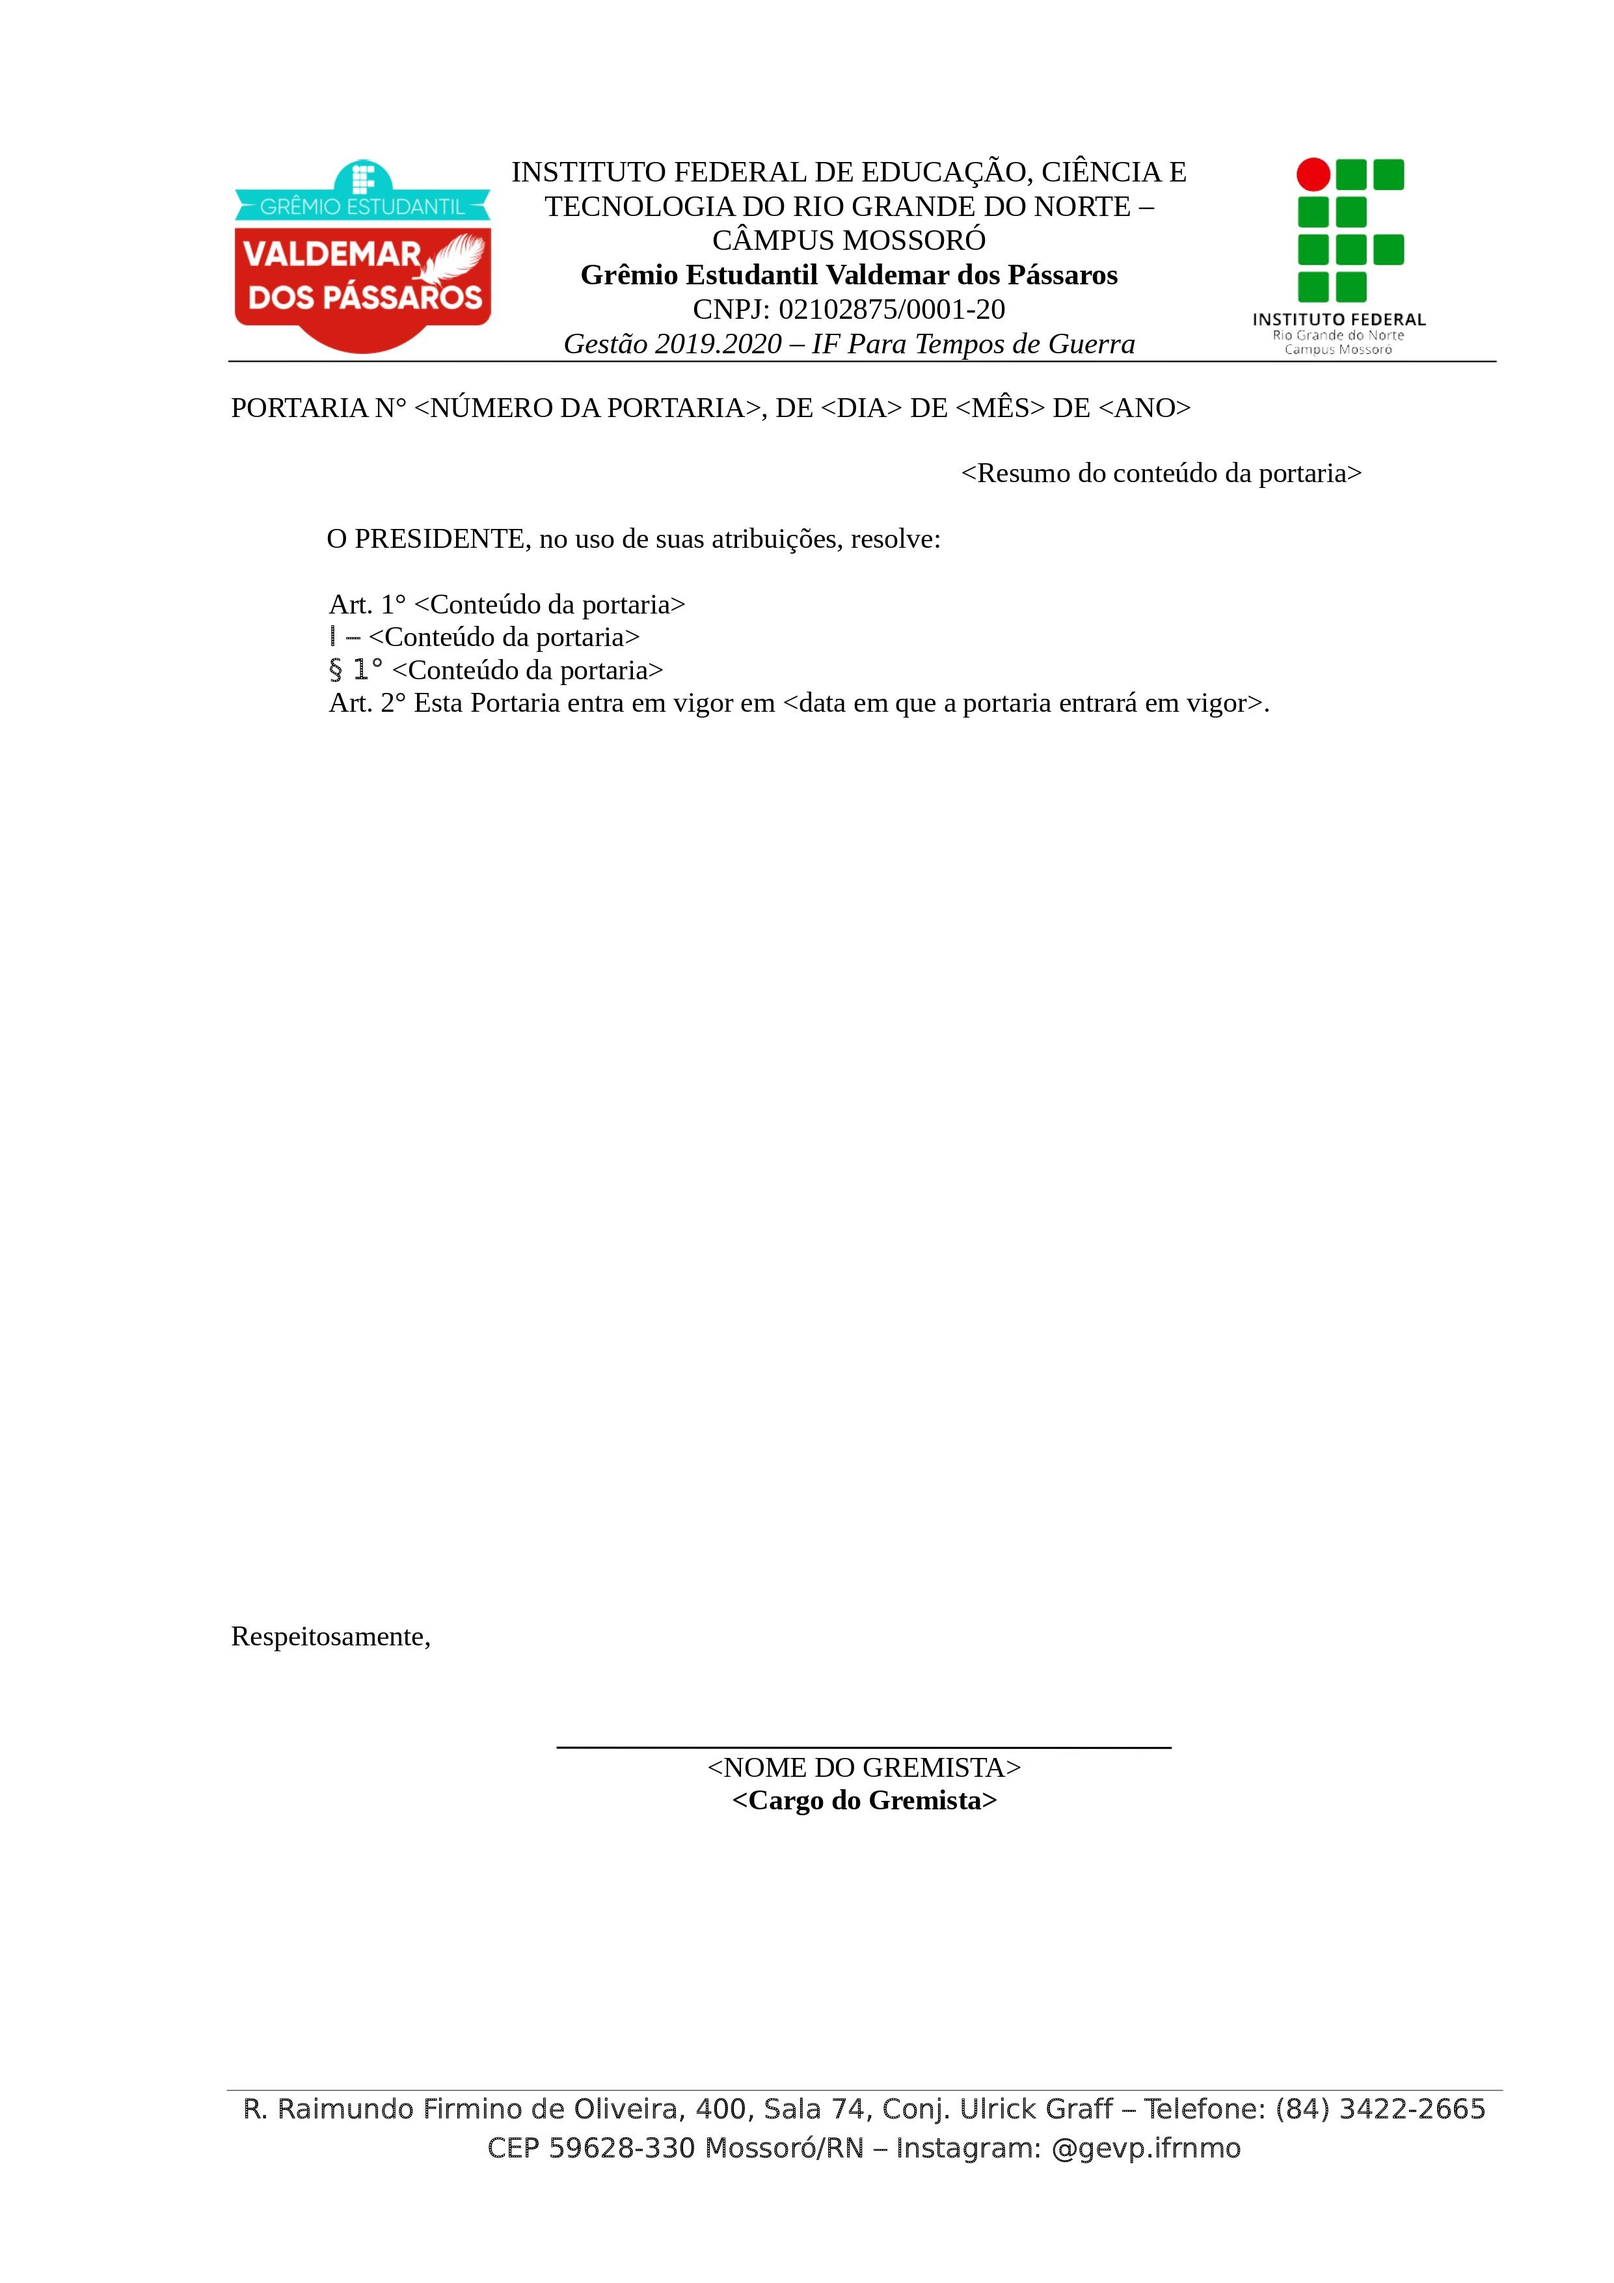
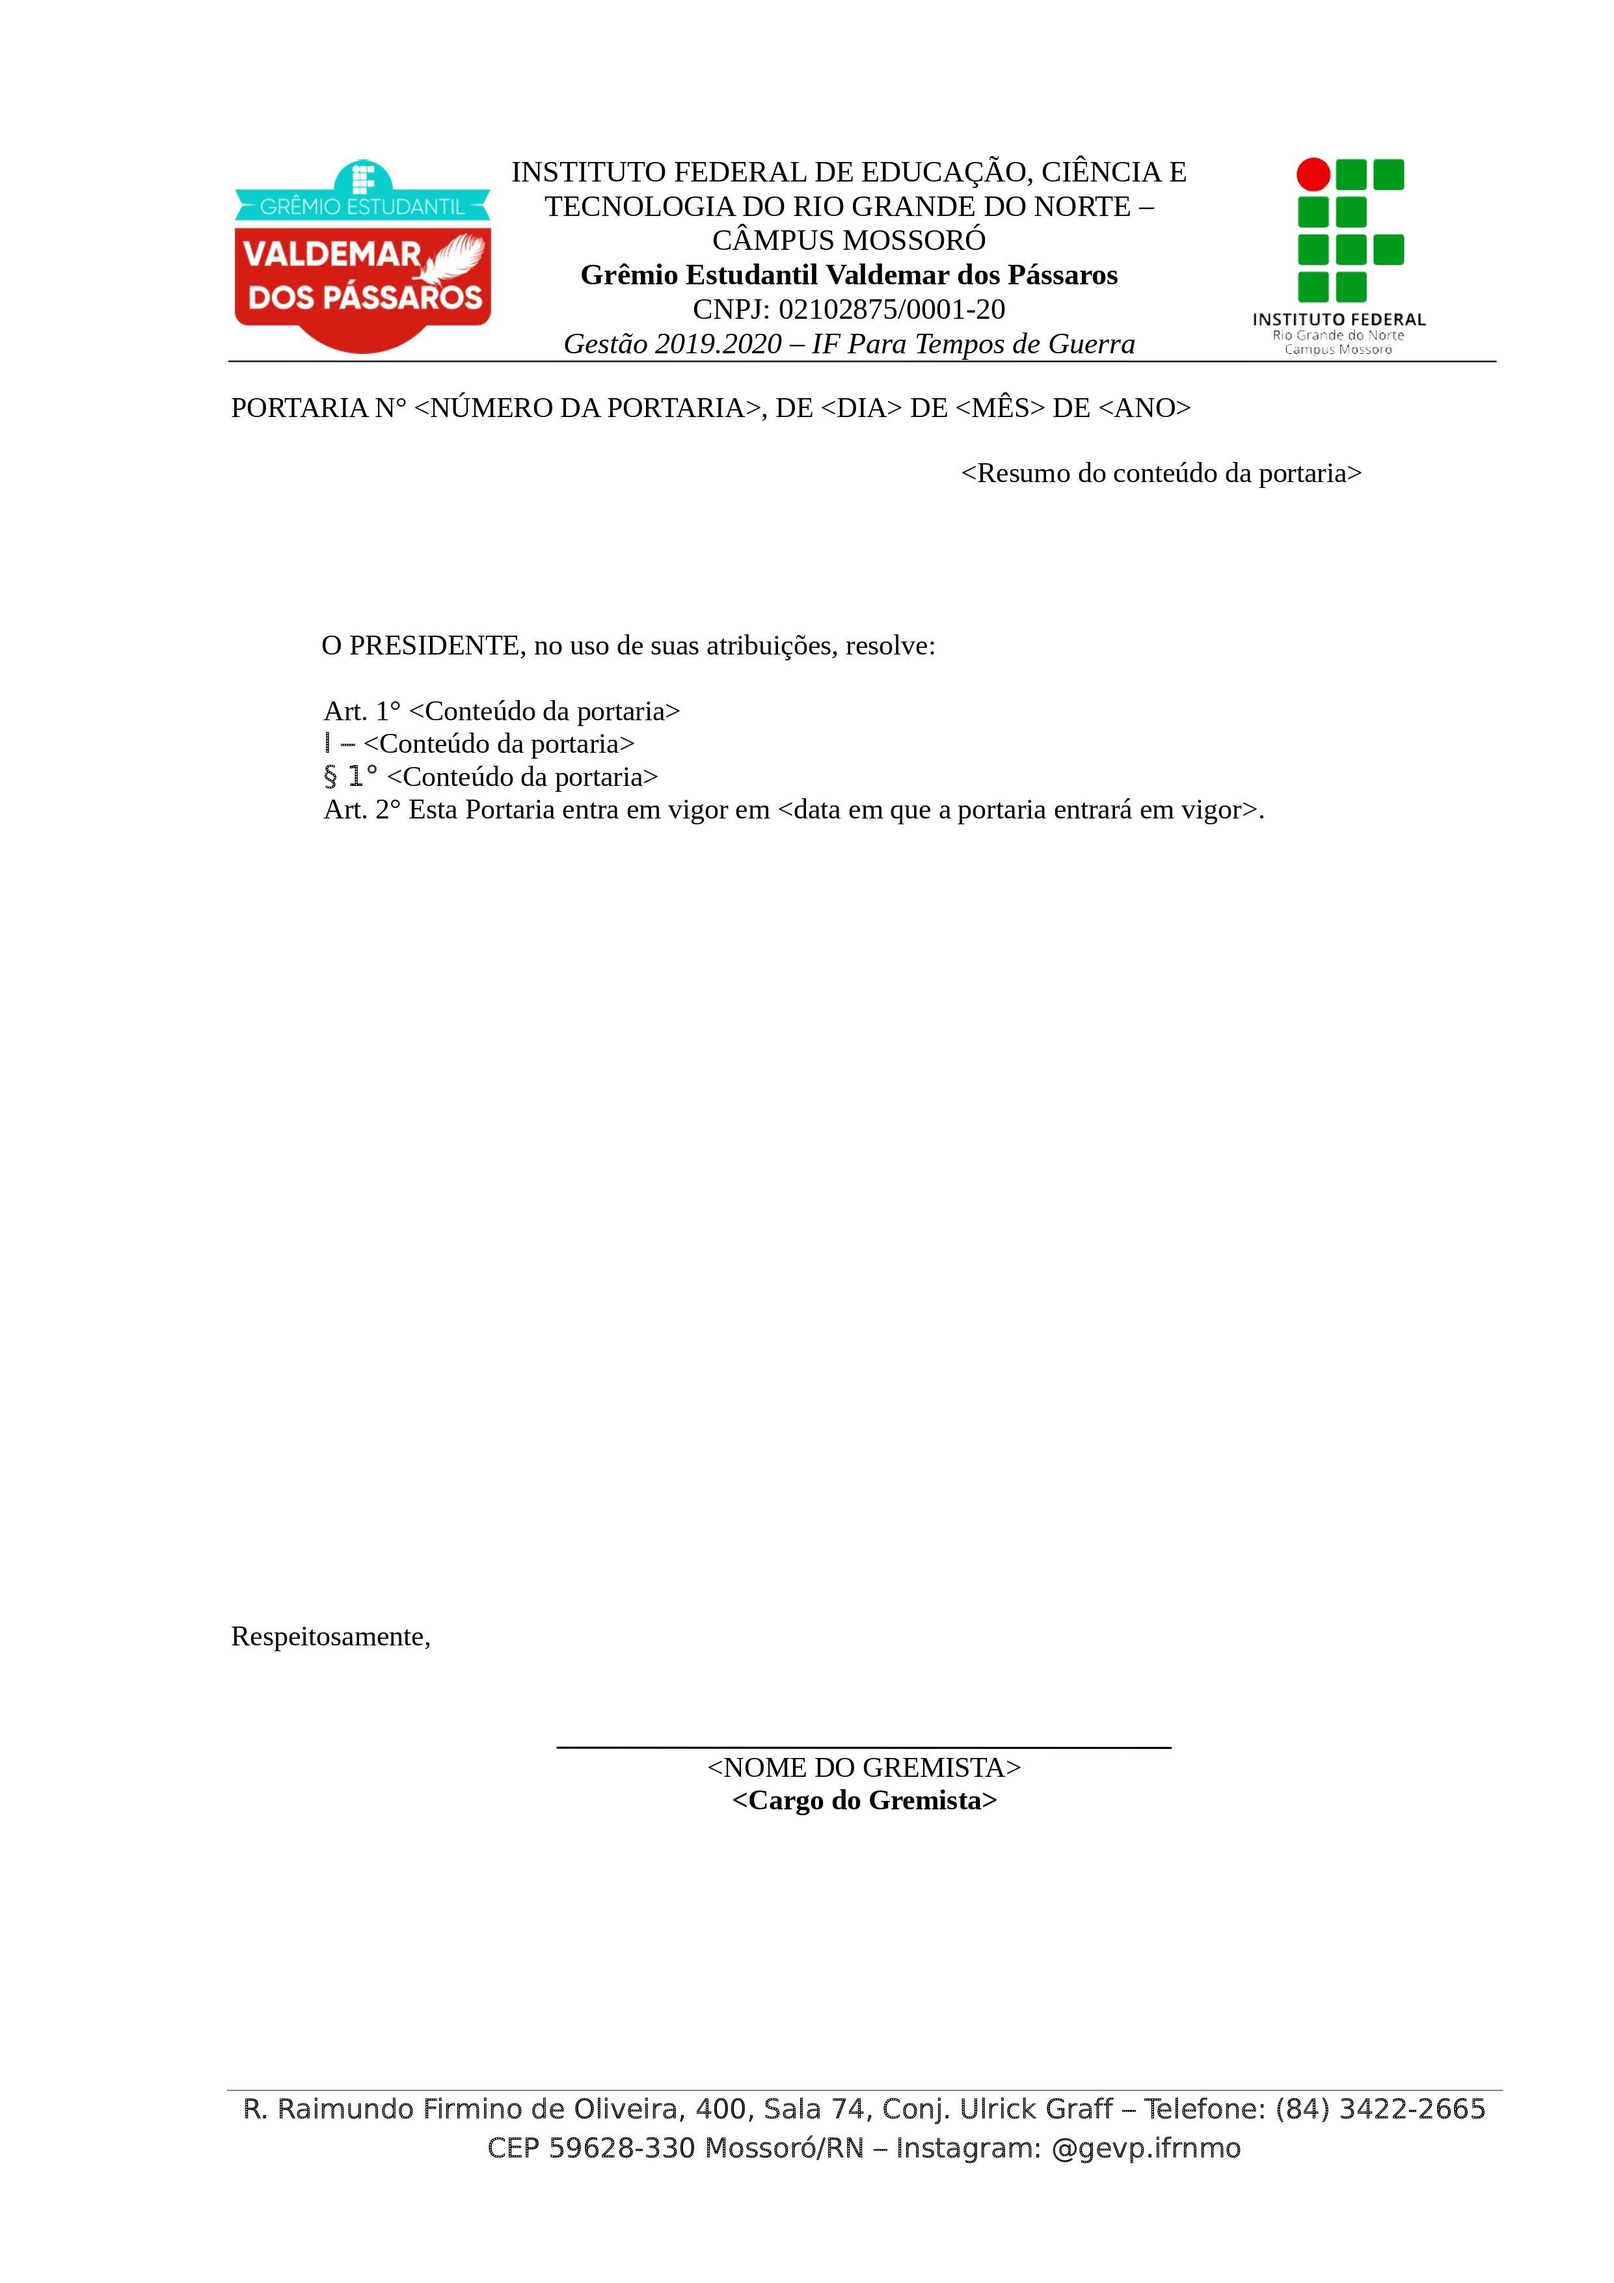
Adição da Função de Portaria

Changed region(s): [[0.1862, 0.2174, 0.5586, 0.3728]]

diff --git a/_css/documentos.css b/_css/documentos.css
@@ -153,3 +153,106 @@
     height: 297mm;
     display: block;
 }
+
+
+/* Gerar Portaria Ofício */
+
+#fundo-port {
+    background-image: url("/TCC/documentos/interno/elementos/img/foto_portaria.jpg") !important;
+    background-repeat: no-repeat;
+    background-size: 100%;
+    float: left;
+    width: 210mm;
+}
+
+#numeracao-port {
+    margin-top: 50mm;
+    margin-left: 29mm;
+    margin-right: 15mm;
+    width: 106mm;
+    height: 5mm;
+    background-color: red;
+}
+
+#input-numeracao-port {
+    width: 130mm;
+    height: 5mm;
+}
+
+#resumo-port {
+    margin-top: 1mm;
+    margin-left: 100mm;
+    margin-right: 15mm;
+    width: 88mm;
+    height: 21mm;
+    background-color: green;
+}
+
+#input-resumo_doc_port {
+    width: 88mm;
+    height: 21mm
+}
+
+#texto-port {
+    margin-top: 1mm;
+    margin-left: 30mm;
+    margin-right: 16mm;
+    width: 158mm;
+    height: 115mm;
+    background-color: navy;
+}
+
+#input-texto-port {
+    width: 158mm;
+    height: 115mm;
+}
+
+#fecho-port {
+    margin-top: 18mm;
+    margin-left: 30mm;
+    margin-right: 15mm;
+    width: 40mm;
+    height: 5mm;
+    background-color: grey;
+}
+
+#input-fecho-port {
+    width: 42mm;
+    height: 5mm;
+}
+
+#assinatura-port {
+    margin-top: 12mm;
+    margin-left: 91mm;
+    margin-right: 15mm;
+    width: 43mm;
+    height: 5mm;
+    background-color: gold;
+}
+
+#input-assinatura-port {
+    width: 45mm;
+    height: 5mm;
+}
+
+#cargo-port {
+    margin-top: 0mm;
+    margin-left: 91mm;
+    margin-right: 15mm;
+    width: 43mm;
+    height: 5mm;
+    background-color: coral;
+}
+
+#input-cargo-port {
+    width: 45mm;
+    height: 5mm;
+}
+
+#input-card-port {
+    margin-top: -130px;
+    margin-left: 720px;
+    position: absolute;
+    padding-left: 20px;
+    padding-right: 20px;
+}

diff --git a/ckeditor/js/javascript.js b/ckeditor/js/javascript.js
@@ -1,3 +1,3 @@
-
 CKFinder.setupCKEditor();
 CKEDITOR.replace('input-corpoOficio');
+CKEDITOR.replace('input-inicio-port');

diff --git a/documentos/interno/portaria/gerar_portaria.php b/documentos/interno/portaria/gerar_portaria.php
@@ -1,152 +1,129 @@
 <html lang="pt-br">
+
 <head>
 
-		<meta charset="utf-8">
-    <meta name="viewport" content="width=device-width, initial-scale=1, shrink-to-fit=no">
-		<title>Gerar Nova Portaria</title>
-		
-			<link rel="stylesheet" href="https://stackpath.bootstrapcdn.com/bootstrap/4.1.3/css/bootstrap.min.css" integrity="sha384-MCw98/SFnGE8fJT3GXwEOngsV7Zt27NXFoaoApmYm81iuXoPkFOJwJ8ERdknLPMO" crossorigin="anonymous">
-	
-			<script src="https://code.jquery.com/jquery-3.3.1.slim.min.js" integrity="sha384-q8i/X+965DzO0rT7abK41JStQIAqVgRVzpbzo5smXKp4YfRvH+8abtTE1Pi6jizo" crossorigin="anonymous"></script>
-			<script src="https://cdnjs.cloudflare.com/ajax/libs/popper.js/1.14.3/umd/popper.min.js" integrity="sha384-ZMP7rVo3mIykV+2+9J3UJ46jBk0WLaUAdn689aCwoqbBJiSnjAK/l8WvCWPIPm49" crossorigin="anonymous"></script>
-			<script src="https://stackpath.bootstrapcdn.com/bootstrap/4.1.3/js/bootstrap.min.js" integrity="sha384-ChfqqxuZUCnJSK3+MXmPNIyE6ZbWh2IMqE241rYiqJxyMiZ6OW/JmZQ5stwEULTy" crossorigin="anonymous"></script>
-			<link rel="stylesheet" type="text/css" href="/TCC/_css/documentos.css">
-			<link rel="stylesheet" type="text/css" href="/TCC/_css/listar.css"> 
-			<link rel="stylesheet" type="text/css" href="/TCC/_css/estilo.css">
-			
-			
-			<script type="text/javascript">
-				setTimeout(function(){ 
-                var msg = document.getElementsByClassName("alertaDeErro");
-                while(msg.length > 0){
-                    msg[0].parentNode.removeChild(msg[0]);
-                }
-            }, 5000);
-        </script>
+	<meta charset="utf-8">
+	<meta name="viewport" content="width=device-width, initial-scale=1, shrink-to-fit=no">
+	<title>Gerar Nova Portaria</title>
 
-		<!-- Teste de Tab-->
-		
-			
+	<link rel="stylesheet" href="https://stackpath.bootstrapcdn.com/bootstrap/4.1.3/css/bootstrap.min.css" integrity="sha384-MCw98/SFnGE8fJT3GXwEOngsV7Zt27NXFoaoApmYm81iuXoPkFOJwJ8ERdknLPMO" crossorigin="anonymous">
+
+	<script src="https://code.jquery.com/jquery-3.3.1.slim.min.js" integrity="sha384-q8i/X+965DzO0rT7abK41JStQIAqVgRVzpbzo5smXKp4YfRvH+8abtTE1Pi6jizo" crossorigin="anonymous"></script>
+	<script src="https://cdnjs.cloudflare.com/ajax/libs/popper.js/1.14.3/umd/popper.min.js" integrity="sha384-ZMP7rVo3mIykV+2+9J3UJ46jBk0WLaUAdn689aCwoqbBJiSnjAK/l8WvCWPIPm49" crossorigin="anonymous"></script>
+	<script src="https://stackpath.bootstrapcdn.com/bootstrap/4.1.3/js/bootstrap.min.js" integrity="sha384-ChfqqxuZUCnJSK3+MXmPNIyE6ZbWh2IMqE241rYiqJxyMiZ6OW/JmZQ5stwEULTy" crossorigin="anonymous"></script>
+	<link rel="stylesheet" type="text/css" href="/TCC/_css/documentos.css">
+	<link rel="stylesheet" type="text/css" href="/TCC/_css/listar.css">
+	<link rel="stylesheet" type="text/css" href="/TCC/_css/estilo.css">
+
+
+	<script type="text/javascript">
+		setTimeout(function() {
+			var msg = document.getElementsByClassName("alertaDeErro");
+			while (msg.length > 0) {
+				msg[0].parentNode.removeChild(msg[0]);
+			}
+		}, 5000);
+	</script>
+
+	<!-- Teste de Tab-->
+
+
 
 </head>
 
-	<body class="temaescuro">
-		<?php
-		include_once("../../../menu.php");
-		include_once("../../../conexao.php");
-if($_SESSION['login'] != null) {
-			$login = $_SESSION['login']; 
-		?> 
+<body class="temaescuro">
+	<?php
+	include_once("../../../menu.php");
+	include_once("../../../conexao.php");
+	if ($_SESSION['login'] != null) {
+		$login = $_SESSION['login'];
+	?>
 		<script>
-function Onlynumbers(e)
-{
-	var tecla=new Number();
-	if(window.event) {
-		tecla = e.keyCode;
-	}
-	else if(e.which) {
-		tecla = e.which;
-	}
-	else {
-		return true;
-	}
-	if((tecla >= "97") && (tecla <= "122")){
-		return false;
-	}
-}</script>
+			function Onlynumbers(e) {
+				var tecla = new Number();
+				if (window.event) {
+					tecla = e.keyCode;
+				} else if (e.which) {
+					tecla = e.which;
+				} else {
+					return true;
+				}
+				if ((tecla >= "97") && (tecla <= "122")) {
+					return false;
+				}
+			}
+		</script>
 		<div id="interface">
-				<div class= "divoficio" id="fundooficio" > <!-- div de exibição do bimestre--> 
-					<form action="inserir_doc_port.php" method="POST">
+			<div class="divoficio" id="fundo-port">
+				<!-- div de exibição do bimestre-->
+				<form action="inserir_doc_port.php" method="POST">
 					<!--<div id="gestao_doc_ofc">
 						<input id ="input-gestao" type="text" placeholder="Gestão 2019.2021 - IF Para Tempos de Guerra" name="gestao_doc_ofc" required>
 					</div>
 -->
 
-					<div id="numeracaoOficio">
-						
-						<input id ="input-numeracao-port" type="text" placeholder="OFÍCIO <ANO>.<NÚMERO>/<SIGLA DA DIRETORIA>/GEVP" name="num_doc_ofc" required>
+					<div id="titulo_doc_port">
+						<input name="titulo_doc_port" id="titulo_doc_port" type="text" placeholder="PORTARIA Nº <NÚMERO>/<ANO>, DE <DIA> DE <MÊS> DE <ANO>" value = "PORTARIA Nº <NÚMERO>/<ANO>, DE <DIA> DE <MÊS> DE <ANO>" required>
 					</div>
 
-						<div id="resumo-port">
-
-					<textarea wrap="hard" required name="resumo_doc_port" id ="input-resumo_doc_port" spellcheck="true"></textarea>
+					<div id="resumo-port">
+						<textarea wrap="hard" required name="resumo_doc_port" id="input-resumo_doc_port" spellcheck="true"></textarea>
 					</div>
 
-					
-					<div id="inicio-port">
-					<select name = "inicio-port">
-						<option value = "O Presidente"> O Presidente </option>
-						<option value = "A Presidente"> A Presidente </option>
-						<option value = "O Vice-presidente"> O Vice-presidente </option>
-						<option value = "A Vice-presidente"> A Vice-presidente </option>
-					</select>
-					<select name = "preambulo-port">
-						<option value = "O Presidente">, no uso de suas atribuções, resolve: </option>
-						<option value = "A Presidente">, no uso de suas atribuições e considerando:</option> <!-- parei aqui -->
-						<option value = "O Vice-presidente"> O Vice-presidente </option>
-						<option value = "A Vice-presidente"> A Vice-presidente </option>
-					</select>
-					</div>
-			
 
-					<div id="corpoOficio">
-					<textarea required id ="input-corpoOficio" type="text" placeholder="Texto do ofício" name="corpo_doc_ofc" spellcheck="true"></textarea>
-
-					</div>
-					
-					<div id="fechoOficio">
-					<input required id ="input-fechoOficio" type="text" placeholder="<Atenciosamente>," name="fecho_doc_ofc" spellcheck="true">
-
-					
+					<div id="texto-port">
+						<textarea name="texto_doc_port" required id="input-texto-port" type="text" placeholder="O Presidente, no uso de suas atribuições, resolve" spellcheck="true">O Presidente, no uso de suas atribuições, resolve</textarea>
 					</div>
 
-					<div id="assinaturaOficio">
-					<input required id ="input-assinaturaOficio" type="text" placeholder="<NOME DO GREMISTA>" value = "<?php echo strtoupper($_SESSION['nome_usuarios'])?>" name="assinatura_doc_ofc" readonly>
-
+					<div id="fecho-port">
+						<input name="fecho_doc_port" required id="input-fecho-port" type="text" placeholder="<Atenciosamente>,"  spellcheck="true">
 					</div>
 
-					<div id="cargoOficio">
-					<input required id ="input-cargoOficio" readonly type="text" value = "<?php echo $_SESSION['cargo']?>" name="cargo_doc_ofc" spellcheck="true">
+					<div id="assinatura-port">
+						<input name="assinatura_doc_port" required id="input-assinatura-port" type="text" placeholder="<NOME DO GREMISTA>" value="<?php echo strtoupper($_SESSION['nome_usuarios']) ?>" readonly>
+					</div>
+
+					<div id="cargo-port">
+						<input required id="input-cargo-port" readonly type="text" value="<?php echo $_SESSION['cargo'] ?>" name="cargo_doc_port" spellcheck="true">
 
 					</div>
-						<input required name="gremista_registro_ofc" type="text" hidden value="<?php echo $_SESSION['login']?>">
-						
-					<div class="card border-danger mb-3" style="min-width:12rem;max-width: 18rem;" id="input-cardOfc">				
-				 
-				  <div class="card-body text-danger">
-					<h5 class="card-title">Salvar ofíco</h5>
-					<p class="card-text">Terminou o ofício?</p>
-					<input type="submit" class="btn btn-danger" value="Salvar Ofício">
-				  </div>
-				</div>
-				
-				</div>
-				</form>
+					<input required name="gremista_registro_port" type="text" hidden value="<?php echo $_SESSION['login'] ?>">
 
-				
-<!-- Início do Modal Configurações -->
-				
-						
-					
-		
+					<div class="card border-danger mb-3" style="min-width:12rem;max-width: 18rem;" id="input-card-port">
+
+						<div class="card-body text-danger">
+							<h5 class="card-title">Terminou a  Portaria? </h5>
+							<p class="card-text">Lembre-se:<br>Documentos só valem após assinados!</p>
+							<input type="submit" class="btn btn-danger" value="Salvar Portaria">
+						</div>
+					</div>
+
+			</div>
+			</form>
+
+
+			<!-- Início do Modal Configurações -->
+
+
+
+
 		<?php
 		include_once("../../../footer.php");
-   }
-?>
-	</div><!-- fim div #interface-->
+	}
+		?>
+		</div><!-- fim div #interface-->
 
 
-	<script src="../../../ckeditor/ckeditor/ckeditor.js" charset="utf-8"></script><!-- Arquivos para o editor de texto opensource CKEditor-->
-	 <script src="../../../ckeditor/ckfinder/ckfinder.js"></script>
-	<script src="../../../ckeditor/js/javascript.js"></script>
-	 <script>
-                // Replace the <textarea id="editor1"> with a CKEditor 4
-                // instance, using default configuration.
-               
-			  // CKEDITOR.replace('corpo_doc_ofc');
-                
-               
-     </script>
+		<script src="../../../ckeditor/ckeditor/ckeditor.js" charset="utf-8"></script><!-- Arquivos para o editor de texto opensource CKEditor-->
+		<script src="../../../ckeditor/ckfinder/ckfinder.js"></script>
+		<script src="../../../ckeditor/js/javascript.js"></script>
+		<script>
+			// Replace the <textarea id="editor1"> with a CKEditor 4
+			// instance, using default configuration.
 
-	</body>
+			// CKEDITOR.replace('corpo_doc_ofc');
+		</script>
+
+</body>
+
 </html>

diff --git a/documentos/interno/elementos/headerPrimeiraPagina.php b/documentos/interno/elementos/headerPrimeiraPagina.php
@@ -671,15 +671,7 @@ function ParseTable($Table)
             $data[] = $elems2;
         }
     }
-    return $data;
+    return $data; 
 }
+ }
 
-   
-
-    
-
-   
-  
-
-   
-}
